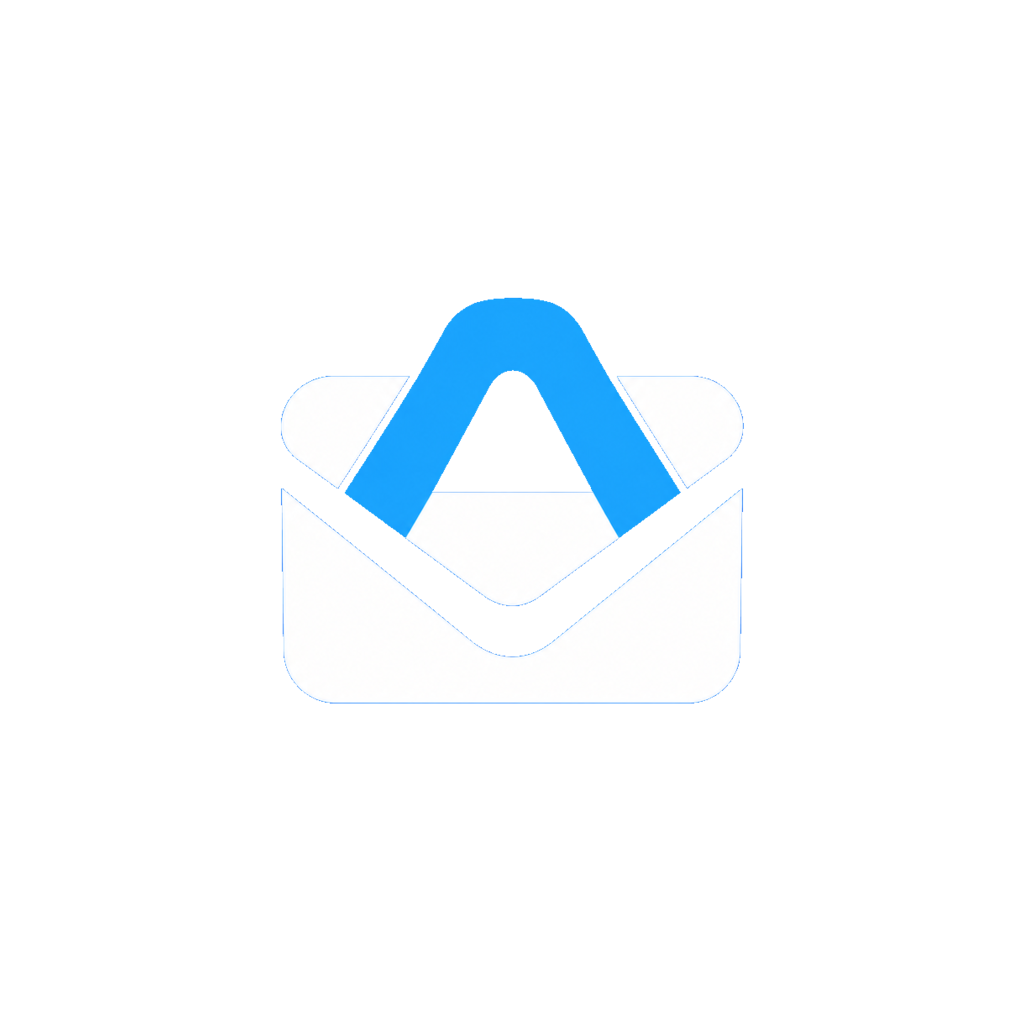
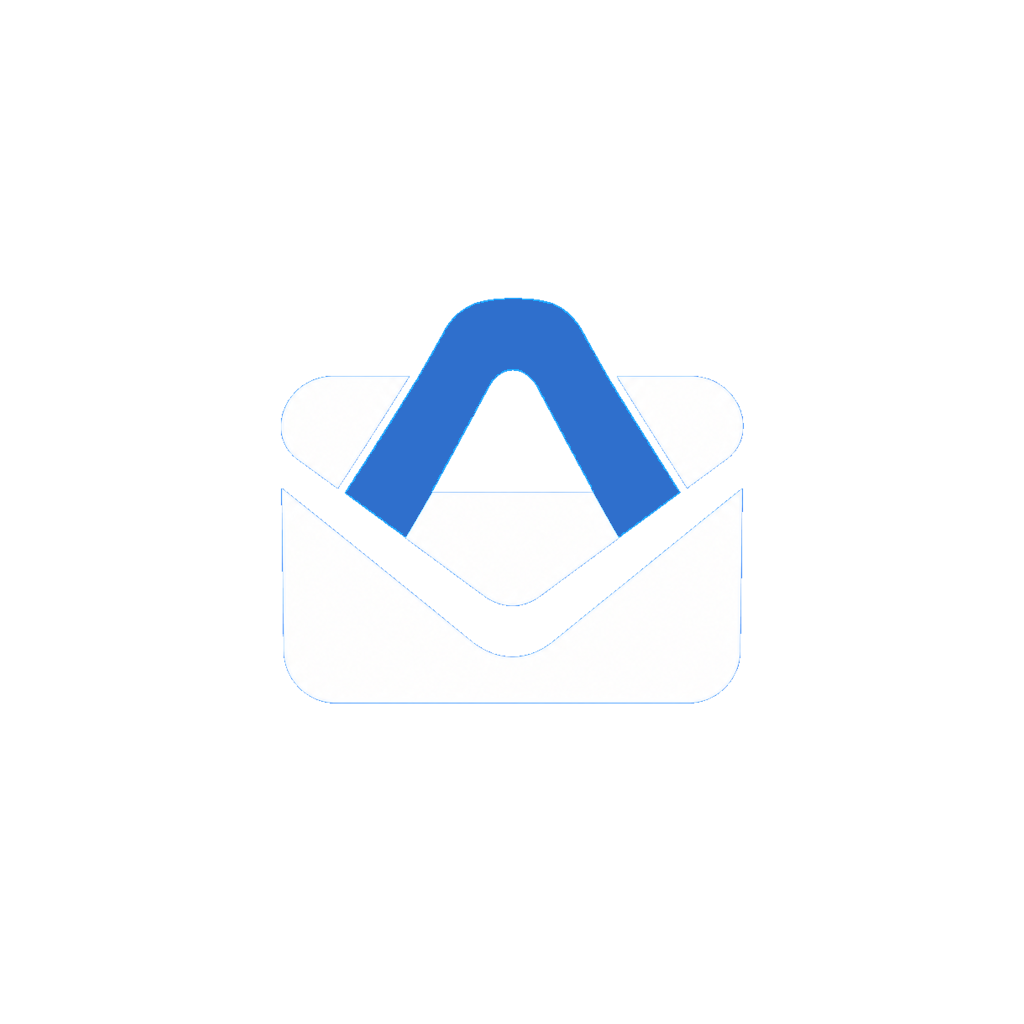
Update afumail application configuration and assets
Replit-Commit-Author: Agent

Changed region(s): [[0.3438, 0.2812, 0.6562, 0.5312]]

diff --git a/artifacts/afumail/app/(auth)/login.tsx b/artifacts/afumail/app/(auth)/login.tsx
@@ -469,7 +469,7 @@ export default function LoginScreen() {
                 <Pressable
                   onPress={handleLogin}
                   disabled={loginLoading}
-                  style={({ pressed }) => [styles.primaryBtn, { backgroundColor: pressed ? colors.primaryPressed : colors.primary, opacity: loginLoading ? 0.7 : 1 }]}
+                  style={({ pressed }) => [styles.primaryBtn, { backgroundColor: pressed ? "#333" : colors.primary, opacity: loginLoading ? 0.7 : 1 }]}
                 >
                   {loginLoading
                     ? <ActivityIndicator color={colors.primaryForeground} size="small" />
@@ -509,7 +509,7 @@ export default function LoginScreen() {
                   </Text>
                   <Pressable
                     onPress={switchToLogin}
-                    style={({ pressed }) => [styles.primaryBtn, { backgroundColor: pressed ? colors.primaryPressed : colors.primary }]}
+                    style={({ pressed }) => [styles.primaryBtn, { backgroundColor: pressed ? "#333" : colors.primary }]}
                   >
                     <Text style={[styles.primaryBtnText, { color: colors.primaryForeground, fontFamily: "Inter_600SemiBold" }]}>
                       Back to Sign In
@@ -556,7 +556,7 @@ export default function LoginScreen() {
                     <Pressable
                        onPress={handleVerifyResetCode}
                       disabled={forgotLoading}
-                      style={({ pressed }) => [styles.primaryBtn, { backgroundColor: pressed ? colors.primaryPressed : colors.primary, opacity: forgotLoading ? 0.7 : 1 }]}
+                      style={({ pressed }) => [styles.primaryBtn, { backgroundColor: pressed ? "#333" : colors.primary, opacity: forgotLoading ? 0.7 : 1 }]}
                     >
                       {forgotLoading
                         ? <ActivityIndicator color={colors.primaryForeground} size="small" />
@@ -659,7 +659,7 @@ export default function LoginScreen() {
                     <Pressable
                       onPress={handleConfirmPasswordReset}
                       disabled={forgotLoading}
-                      style={({ pressed }) => [styles.primaryBtn, { backgroundColor: pressed ? colors.primaryPressed : colors.primary, opacity: forgotLoading ? 0.7 : 1 }]}
+                      style={({ pressed }) => [styles.primaryBtn, { backgroundColor: pressed ? "#333" : colors.primary, opacity: forgotLoading ? 0.7 : 1 }]}
                     >
                       {forgotLoading
                         ? <ActivityIndicator color={colors.primaryForeground} size="small" />
@@ -704,7 +704,7 @@ export default function LoginScreen() {
                     <Pressable
                       onPress={handleForgotPassword}
                       disabled={forgotLoading}
-                      style={({ pressed }) => [styles.primaryBtn, { backgroundColor: pressed ? colors.primaryPressed : colors.primary, opacity: forgotLoading ? 0.7 : 1 }]}
+                      style={({ pressed }) => [styles.primaryBtn, { backgroundColor: pressed ? "#333" : colors.primary, opacity: forgotLoading ? 0.7 : 1 }]}
                     >
                       {forgotLoading
                         ? <ActivityIndicator color={colors.primaryForeground} size="small" />
@@ -788,7 +788,7 @@ export default function LoginScreen() {
 
                     <Pressable
                       onPress={handleStep1Next}
-                      style={({ pressed }) => [styles.primaryBtn, { backgroundColor: pressed ? colors.primaryPressed : colors.primary }]}
+                      style={({ pressed }) => [styles.primaryBtn, { backgroundColor: pressed ? "#333" : colors.primary }]}
                     >
                       <Text style={[styles.primaryBtnText, { color: colors.primaryForeground, fontFamily: "Inter_600SemiBold" }]}>
                         Next
@@ -886,7 +886,7 @@ export default function LoginScreen() {
                         styles.primaryBtn,
                         {
                           backgroundColor: usernameAvailable === true
-                            ? pressed ? colors.primaryPressed : colors.primary
+                            ? pressed ? "#333" : colors.primary
                             : colors.muted,
                         },
                       ]}
@@ -946,7 +946,7 @@ export default function LoginScreen() {
 
                     <Pressable
                       onPress={handleStep3Next}
-                      style={({ pressed }) => [styles.primaryBtn, { backgroundColor: pressed ? colors.primaryPressed : colors.primary }]}
+                      style={({ pressed }) => [styles.primaryBtn, { backgroundColor: pressed ? "#333" : colors.primary }]}
                     >
                       <Text style={[styles.primaryBtnText, { color: colors.primaryForeground, fontFamily: "Inter_600SemiBold" }]}>
                         Next
@@ -1025,7 +1025,7 @@ export default function LoginScreen() {
                     <Pressable
                       onPress={handleRegister}
                       disabled={registerLoading}
-                      style={({ pressed }) => [styles.primaryBtn, { backgroundColor: pressed ? colors.primaryPressed : colors.primary, opacity: registerLoading ? 0.7 : 1 }]}
+                      style={({ pressed }) => [styles.primaryBtn, { backgroundColor: pressed ? "#333" : colors.primary, opacity: registerLoading ? 0.7 : 1 }]}
                     >
                       {registerLoading
                         ? <ActivityIndicator color={colors.primaryForeground} size="small" />
@@ -1067,7 +1067,7 @@ export default function LoginScreen() {
                       disabled={phoneLoading}
                       style={({ pressed }) => [
                         styles.primaryBtn,
-                        { backgroundColor: pressed ? colors.primaryPressed : colors.primary, opacity: phoneLoading ? 0.7 : 1 },
+                        { backgroundColor: pressed ? "#333" : colors.primary, opacity: phoneLoading ? 0.7 : 1 },
                       ]}
                     >
                       {phoneLoading

diff --git a/artifacts/afumail/constants/colors.ts b/artifacts/afumail/constants/colors.ts
@@ -1,49 +1,47 @@
 const colors = {
   light: {
-    text: "#0B1736",
-    tint: "#016FFE",
-    background: "#F7FAFF",
-    foreground: "#0B1736",
+    text: "#1A1A1A",
+    tint: "#1558B5",
+    background: "#FAF8F5",
+    foreground: "#1A1A1A",
     card: "#FFFFFF",
-    cardForeground: "#0B1736",
-    primary: "#016FFE",
-    primaryPressed: "#0057D6",
+    cardForeground: "#1A1A1A",
+    primary: "#1A1A1A",
     primaryForeground: "#FFFFFF",
-    secondary: "#E8F1FF",
-    secondaryForeground: "#0B1736",
-    muted: "#E9F1FC",
-    mutedForeground: "#5C6B82",
-    accent: "#1CA0FD",
+    secondary: "#E8E3DC",
+    secondaryForeground: "#1A1A1A",
+    muted: "#E8E3DC",
+    mutedForeground: "#625D57",
+    accent: "#1D6FE0",
     accentForeground: "#FFFFFF",
-    destructive: "#DC2626",
+    destructive: "#E53935",
     destructiveForeground: "#FFFFFF",
-    border: "#D6E3F5",
-    input: "#D6E3F5",
-    success: "#059669",
-    warning: "#D97706",
+    border: "#D6D0C8",
+    input: "#D6D0C8",
+    success: "#047857",
+    warning: "#B45309",
   },
   dark: {
-    text: "#F4F8FF",
-    tint: "#4EA7FF",
-    background: "#06142F",
-    foreground: "#F4F8FF",
-    card: "#0D2348",
-    cardForeground: "#F4F8FF",
-    primary: "#2B86FF",
-    primaryPressed: "#1769D2",
-    primaryForeground: "#FFFFFF",
-    secondary: "#12325E",
-    secondaryForeground: "#E9F3FF",
-    muted: "#102A50",
-    mutedForeground: "#A6BDD9",
-    accent: "#39B5FF",
+    text: "#F5F3F0",
+    tint: "#2F6FCC",
+    background: "#0D0D0D",
+    foreground: "#F5F3F0",
+    card: "#1A1A1A",
+    cardForeground: "#F5F3F0",
+    primary: "#FFFFFF",
+    primaryForeground: "#0D0D0D",
+    secondary: "#292929",
+    secondaryForeground: "#F5F3F0",
+    muted: "#232323",
+    mutedForeground: "#B8B2AA",
+    accent: "#2F6FCC",
     accentForeground: "#FFFFFF",
-    destructive: "#F87171",
+    destructive: "#EF5350",
     destructiveForeground: "#FFFFFF",
-    border: "#1E4477",
-    input: "#1E4477",
-    success: "#34D399",
-    warning: "#FBBF24",
+    border: "#3A3A3A",
+    input: "#3A3A3A",
+    success: "#047857",
+    warning: "#B45309",
   },
   radius: 12,
 };

diff --git a/artifacts/afumail/server/expo-proxy.js b/artifacts/afumail/server/expo-proxy.js
@@ -80,8 +80,8 @@ const server = http.createServer((clientReq, clientRes) => {
       clientRes.writeHead(200, { "Content-Type": "text/html" });
       clientRes.end(
         `<!DOCTYPE html><html><head><meta http-equiv="refresh" content="2"><title>AfuMail starting…</title></head>` +
-        `<body style="font-family:sans-serif;display:flex;align-items:center;justify-content:center;height:100vh;margin:0;background:#F7FAFF;">` +
-        `<p style="color:#016FFE;font-size:1.1rem;">AfuMail is starting up, please wait…</p></body></html>`
+        `<body style="font-family:sans-serif;display:flex;align-items:center;justify-content:center;height:100vh;margin:0;background:#FAF8F5;">` +
+        `<p style="color:#555;font-size:1.1rem;">AfuMail is starting up, please wait…</p></body></html>`
       );
     }
   });
